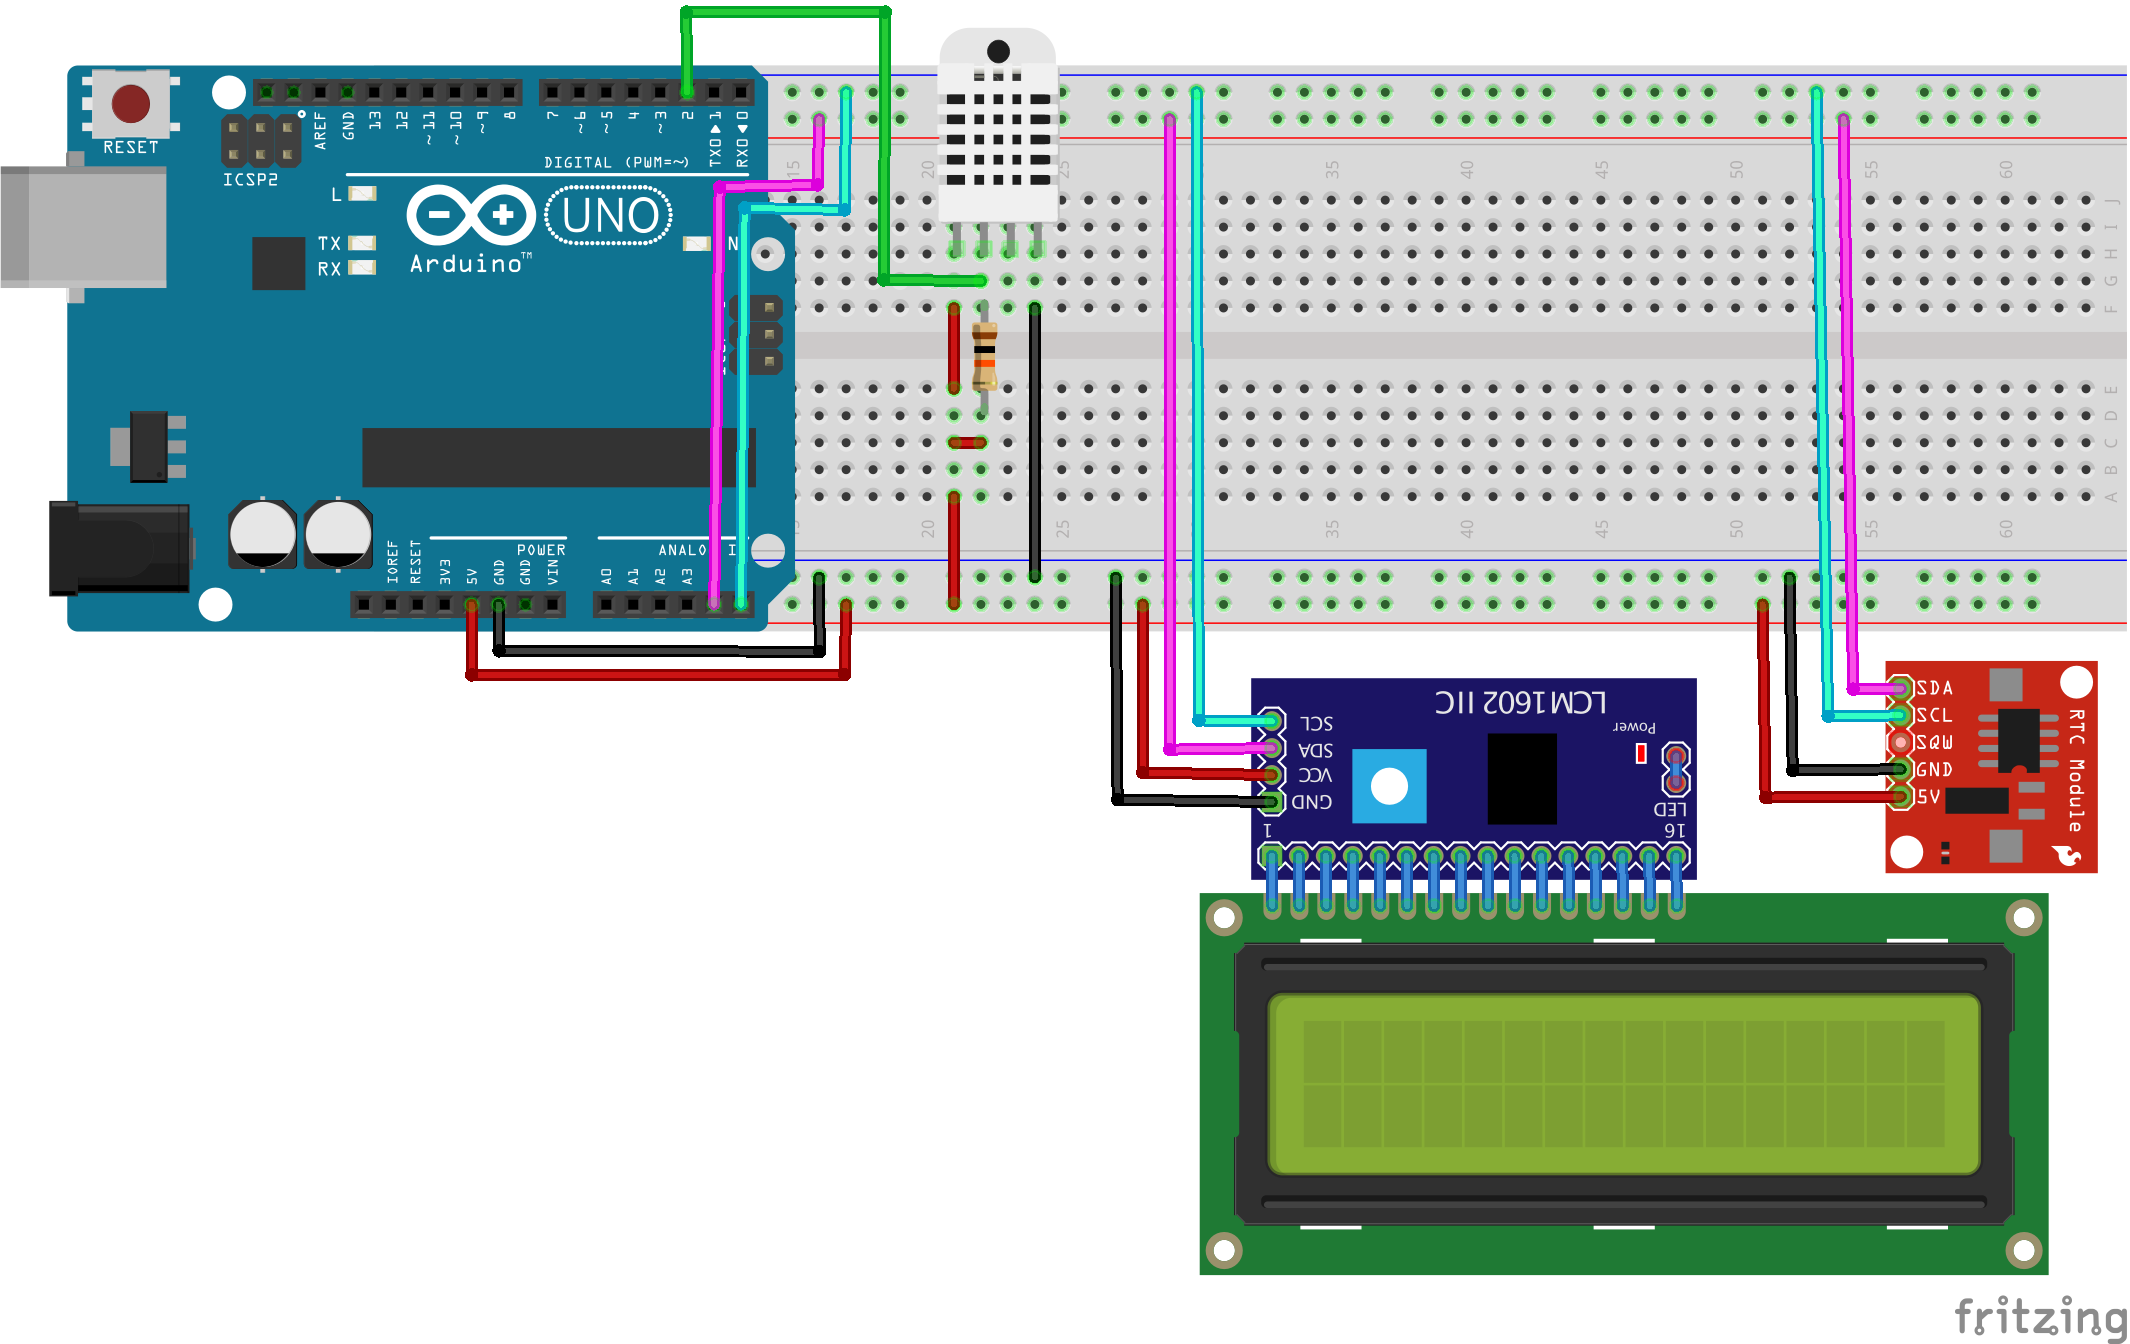
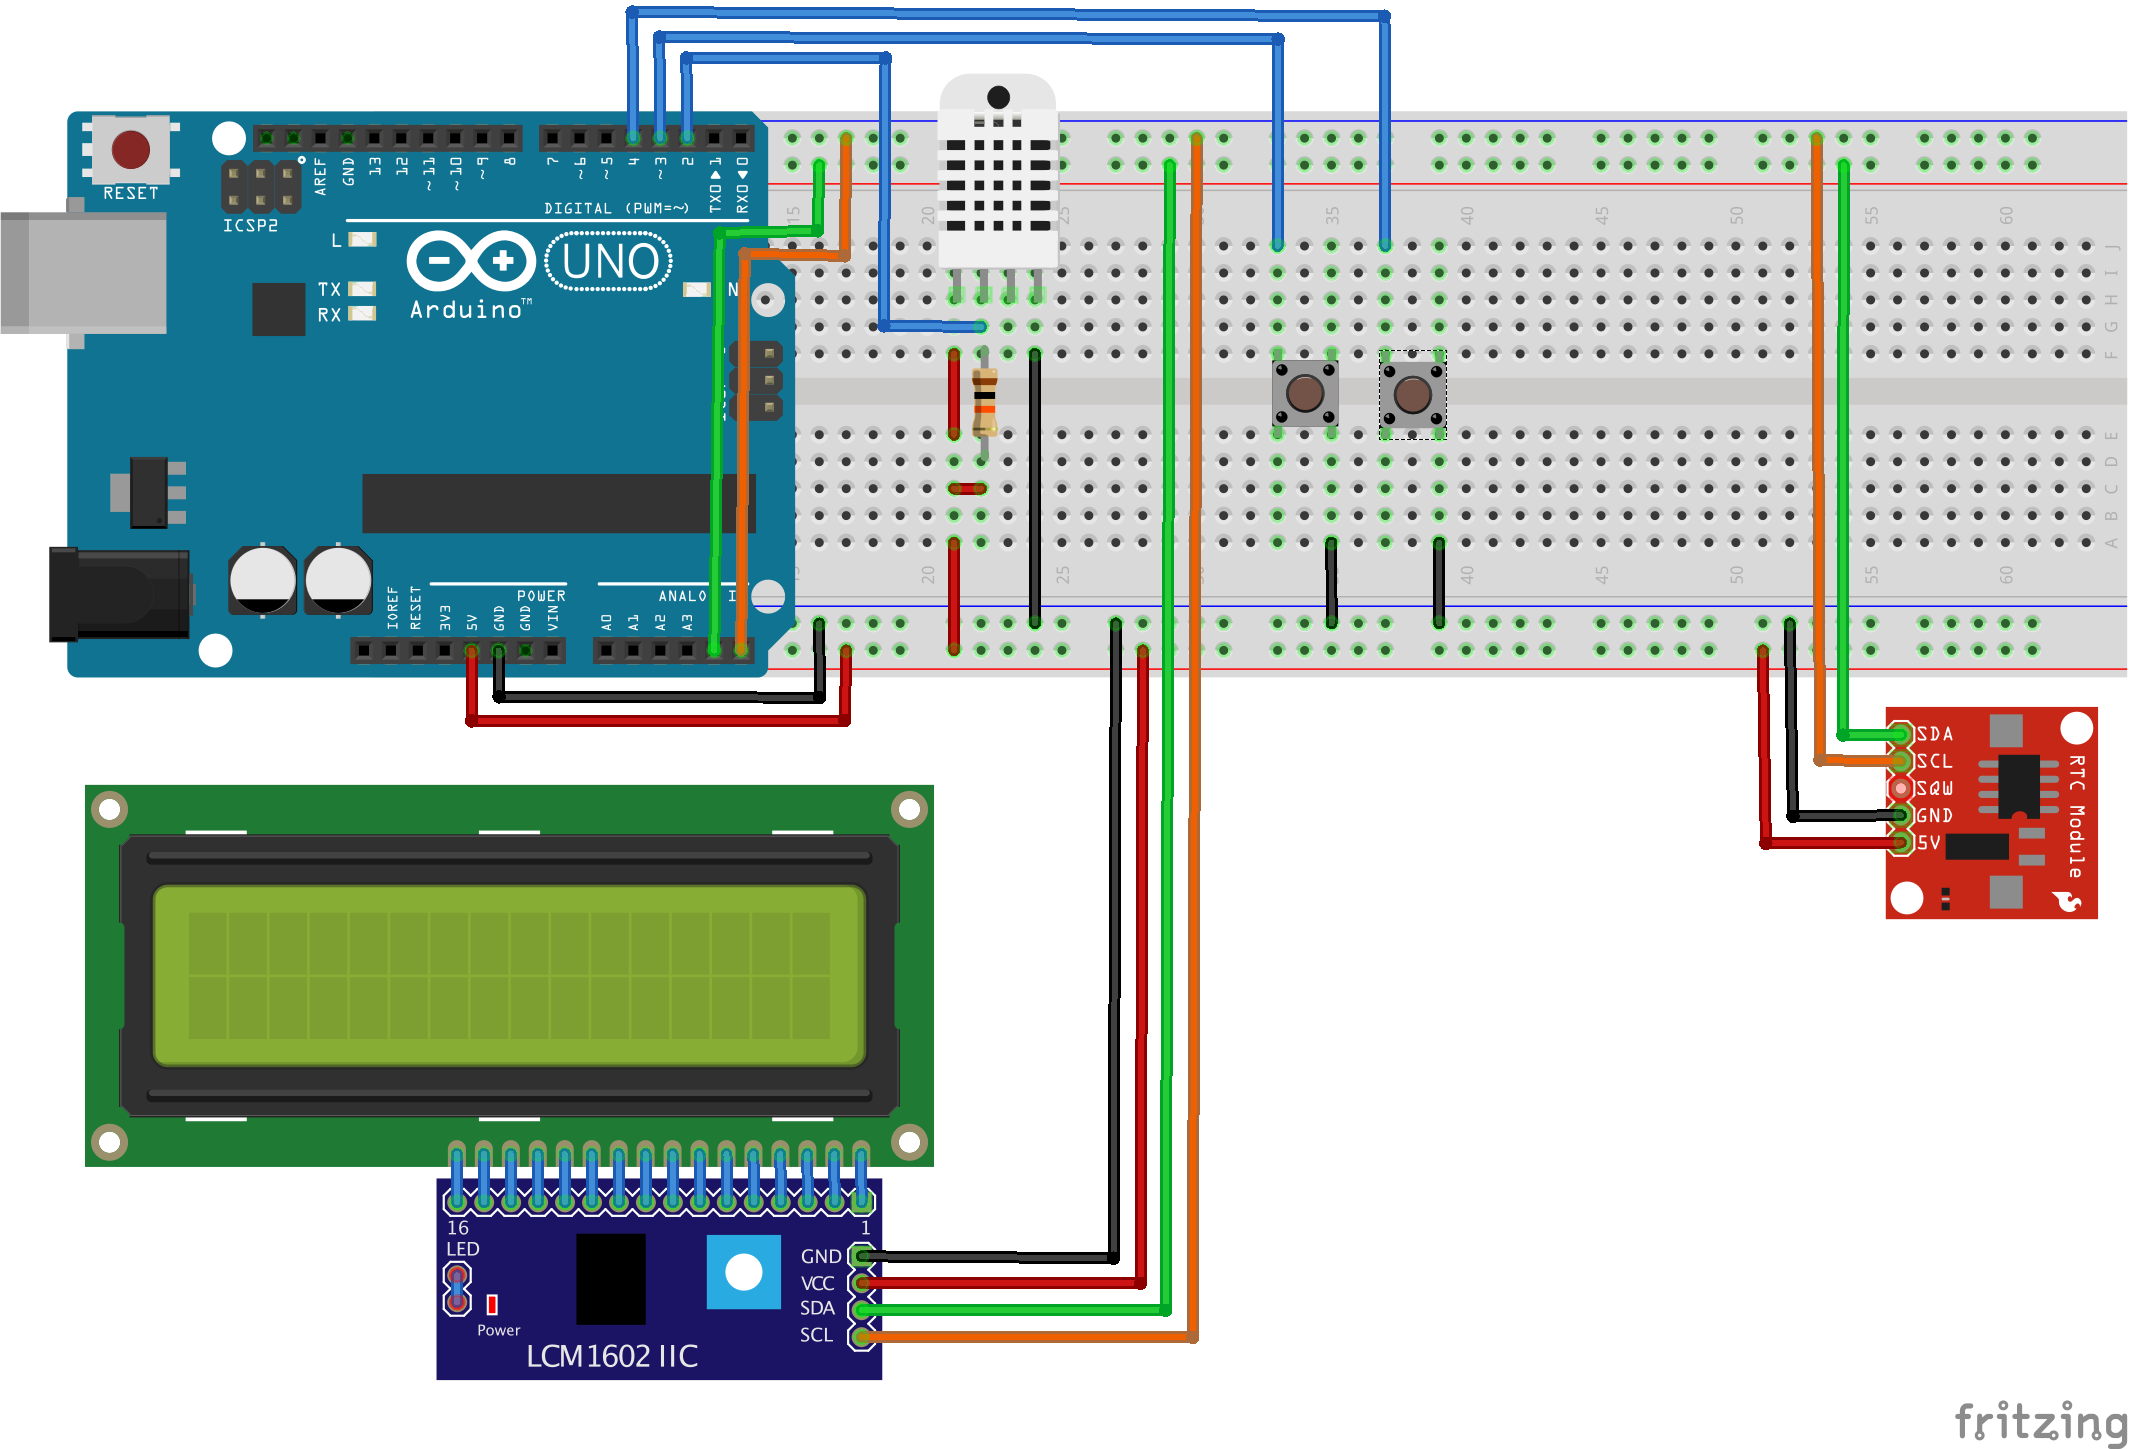
кнопки
добавлены: кнопки и меню для установки даты/времени, управление подсветкой с кнопки

diff --git a/README.md b/README.md
@@ -1,5 +1,13 @@
 # Meteostation
 ![Прототип](https://github.com/djhumster/Meteostation/blob/master/proto.JPG?raw=true)
+
+     Кнопка МЕНЮ (S1):
+      клик - меняет страницы меню
+      двойной клик - включает/выключает меню с сохранением изменений
+      длинный клик - выход из меню, без сохранения изменений
+     Кнопка "+" (S2):
+      клик - в меню уввеличивает значение
+      двойной клик - вкл/выкл подсветку экрана (везде)
 ### Компоненты:  
 |Кол-во|Наименование|
 |------|------|
@@ -9,6 +17,7 @@
 |1|Резистор 10 кОм|
 |1|Макетная плата|  
 |1|Модуль часов реального времени I2C RTC DS1307|
+|2|Кнопка тактовая|
 ### Требуются библиотеки:
 [New Liquid Crystal](http://arduino-info.wikispaces.com/LCD-Blue-I2C)  
 [DHT-sensor-library](https://learn.adafruit.com/dht)  
